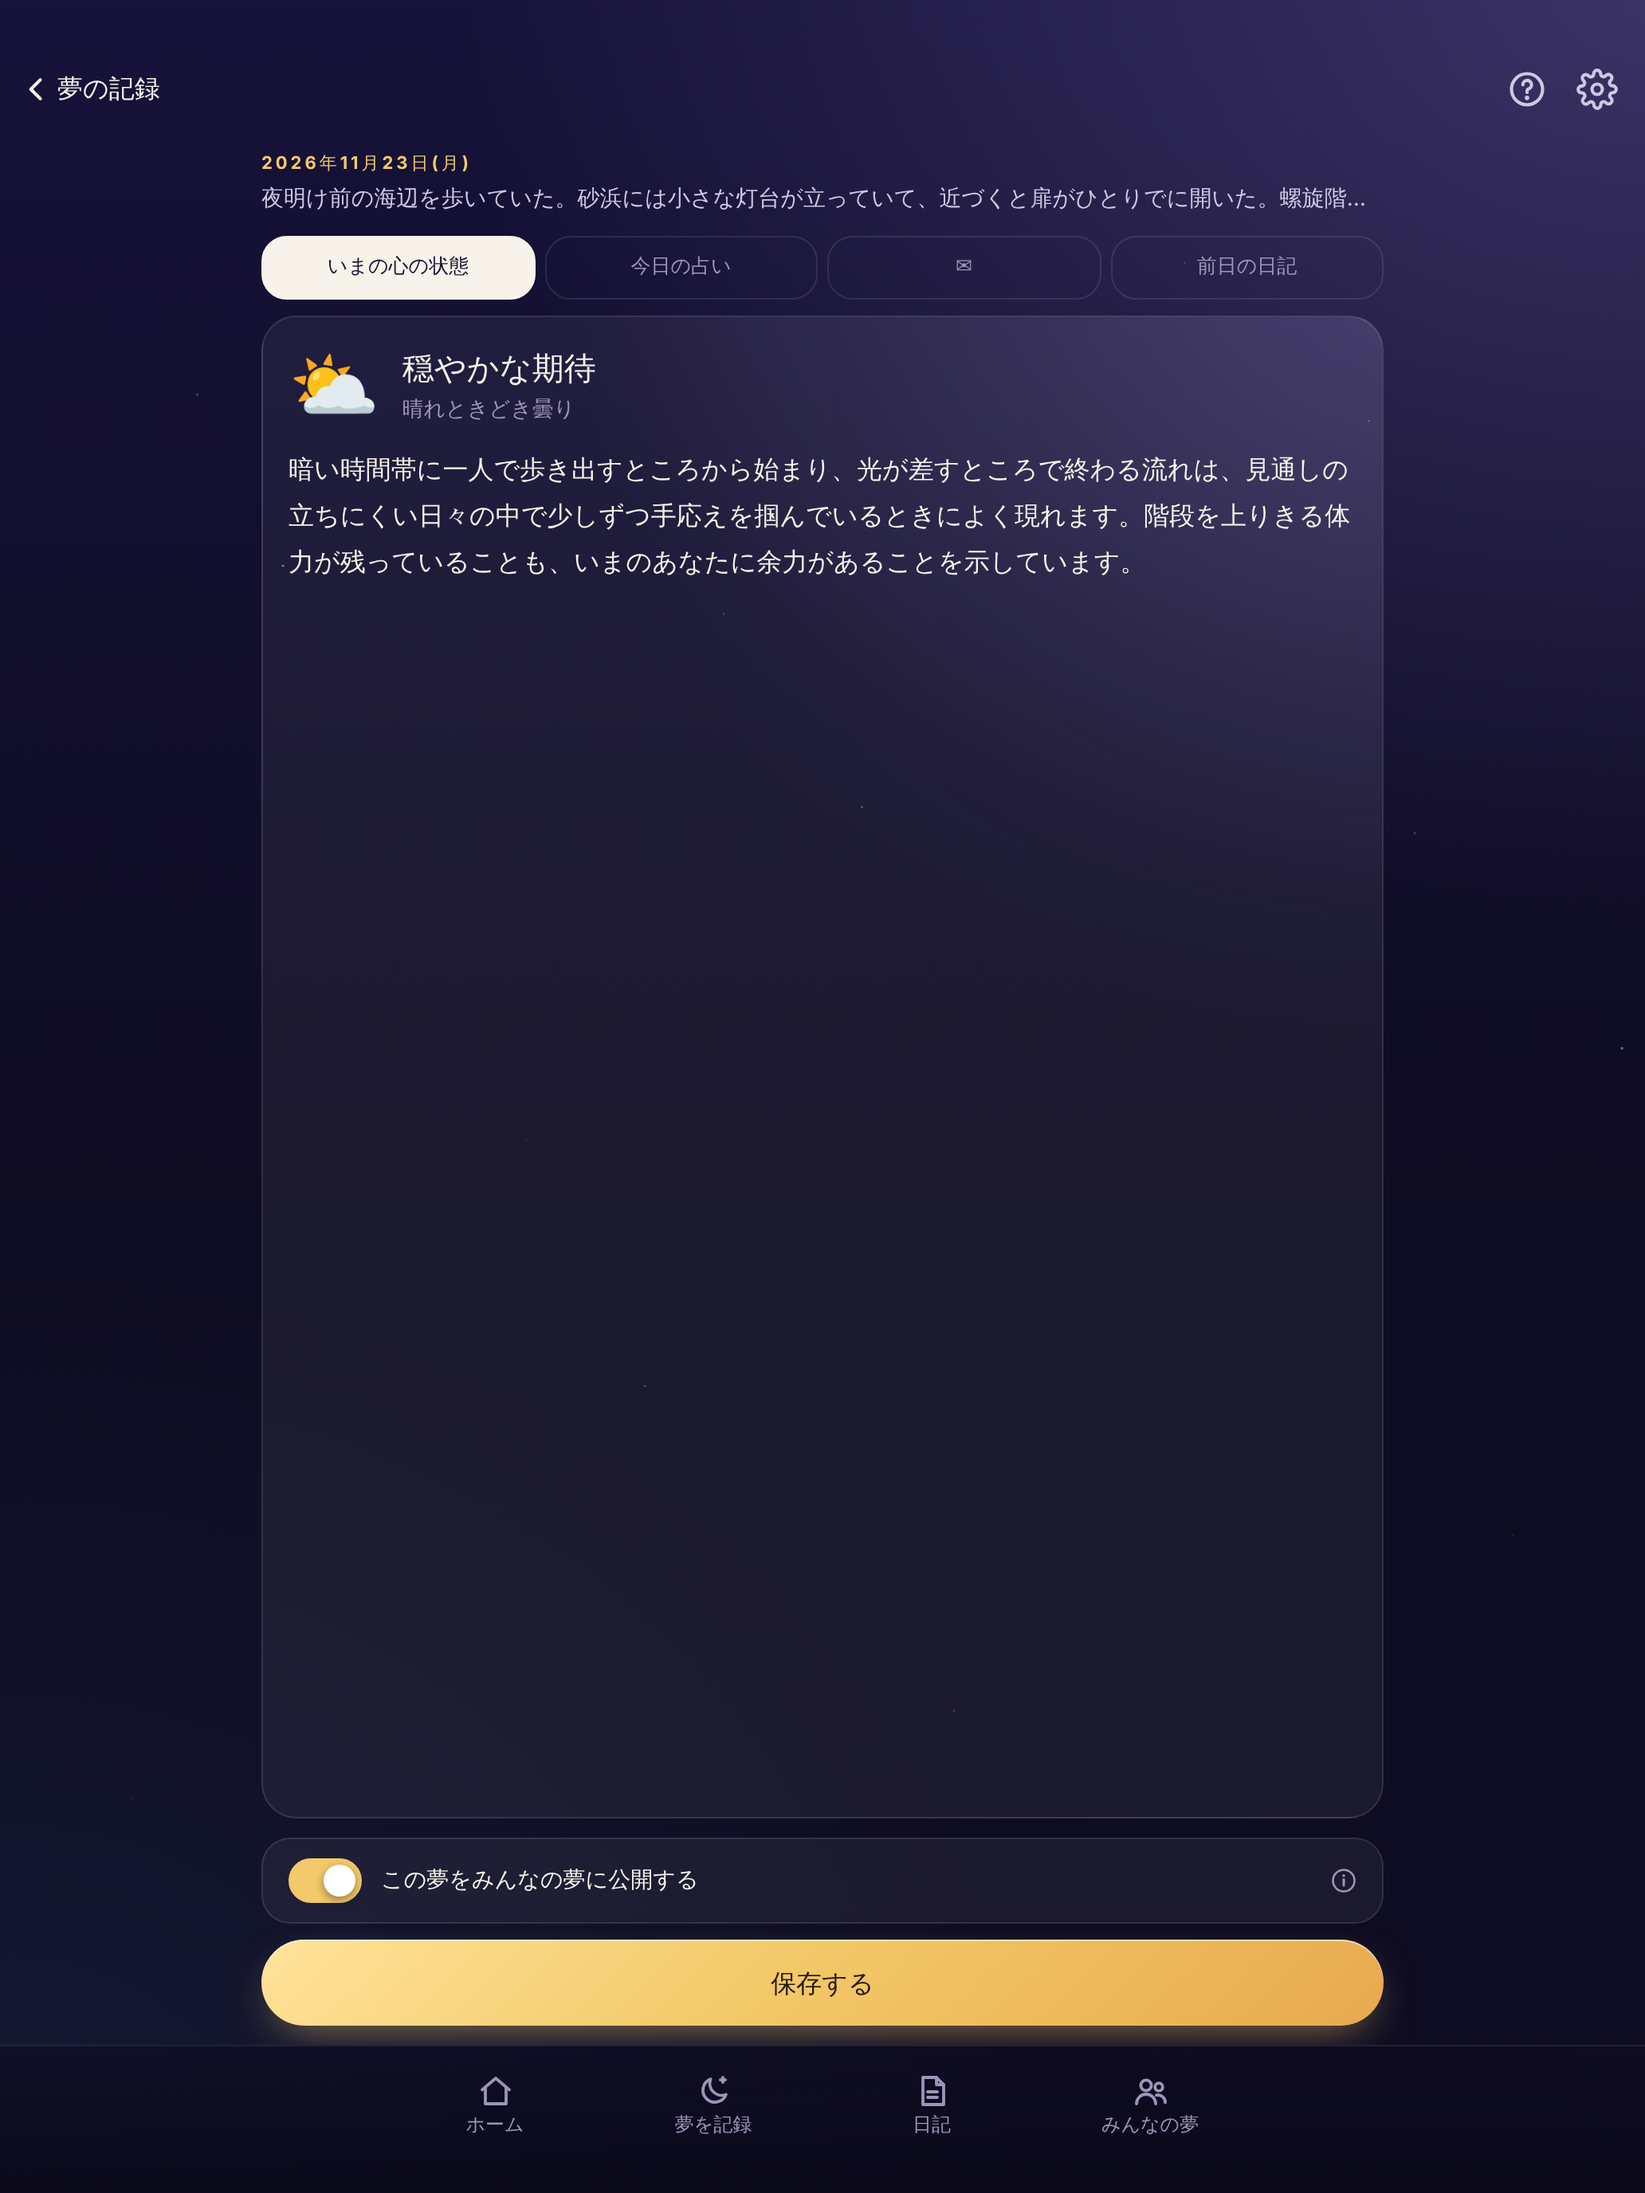
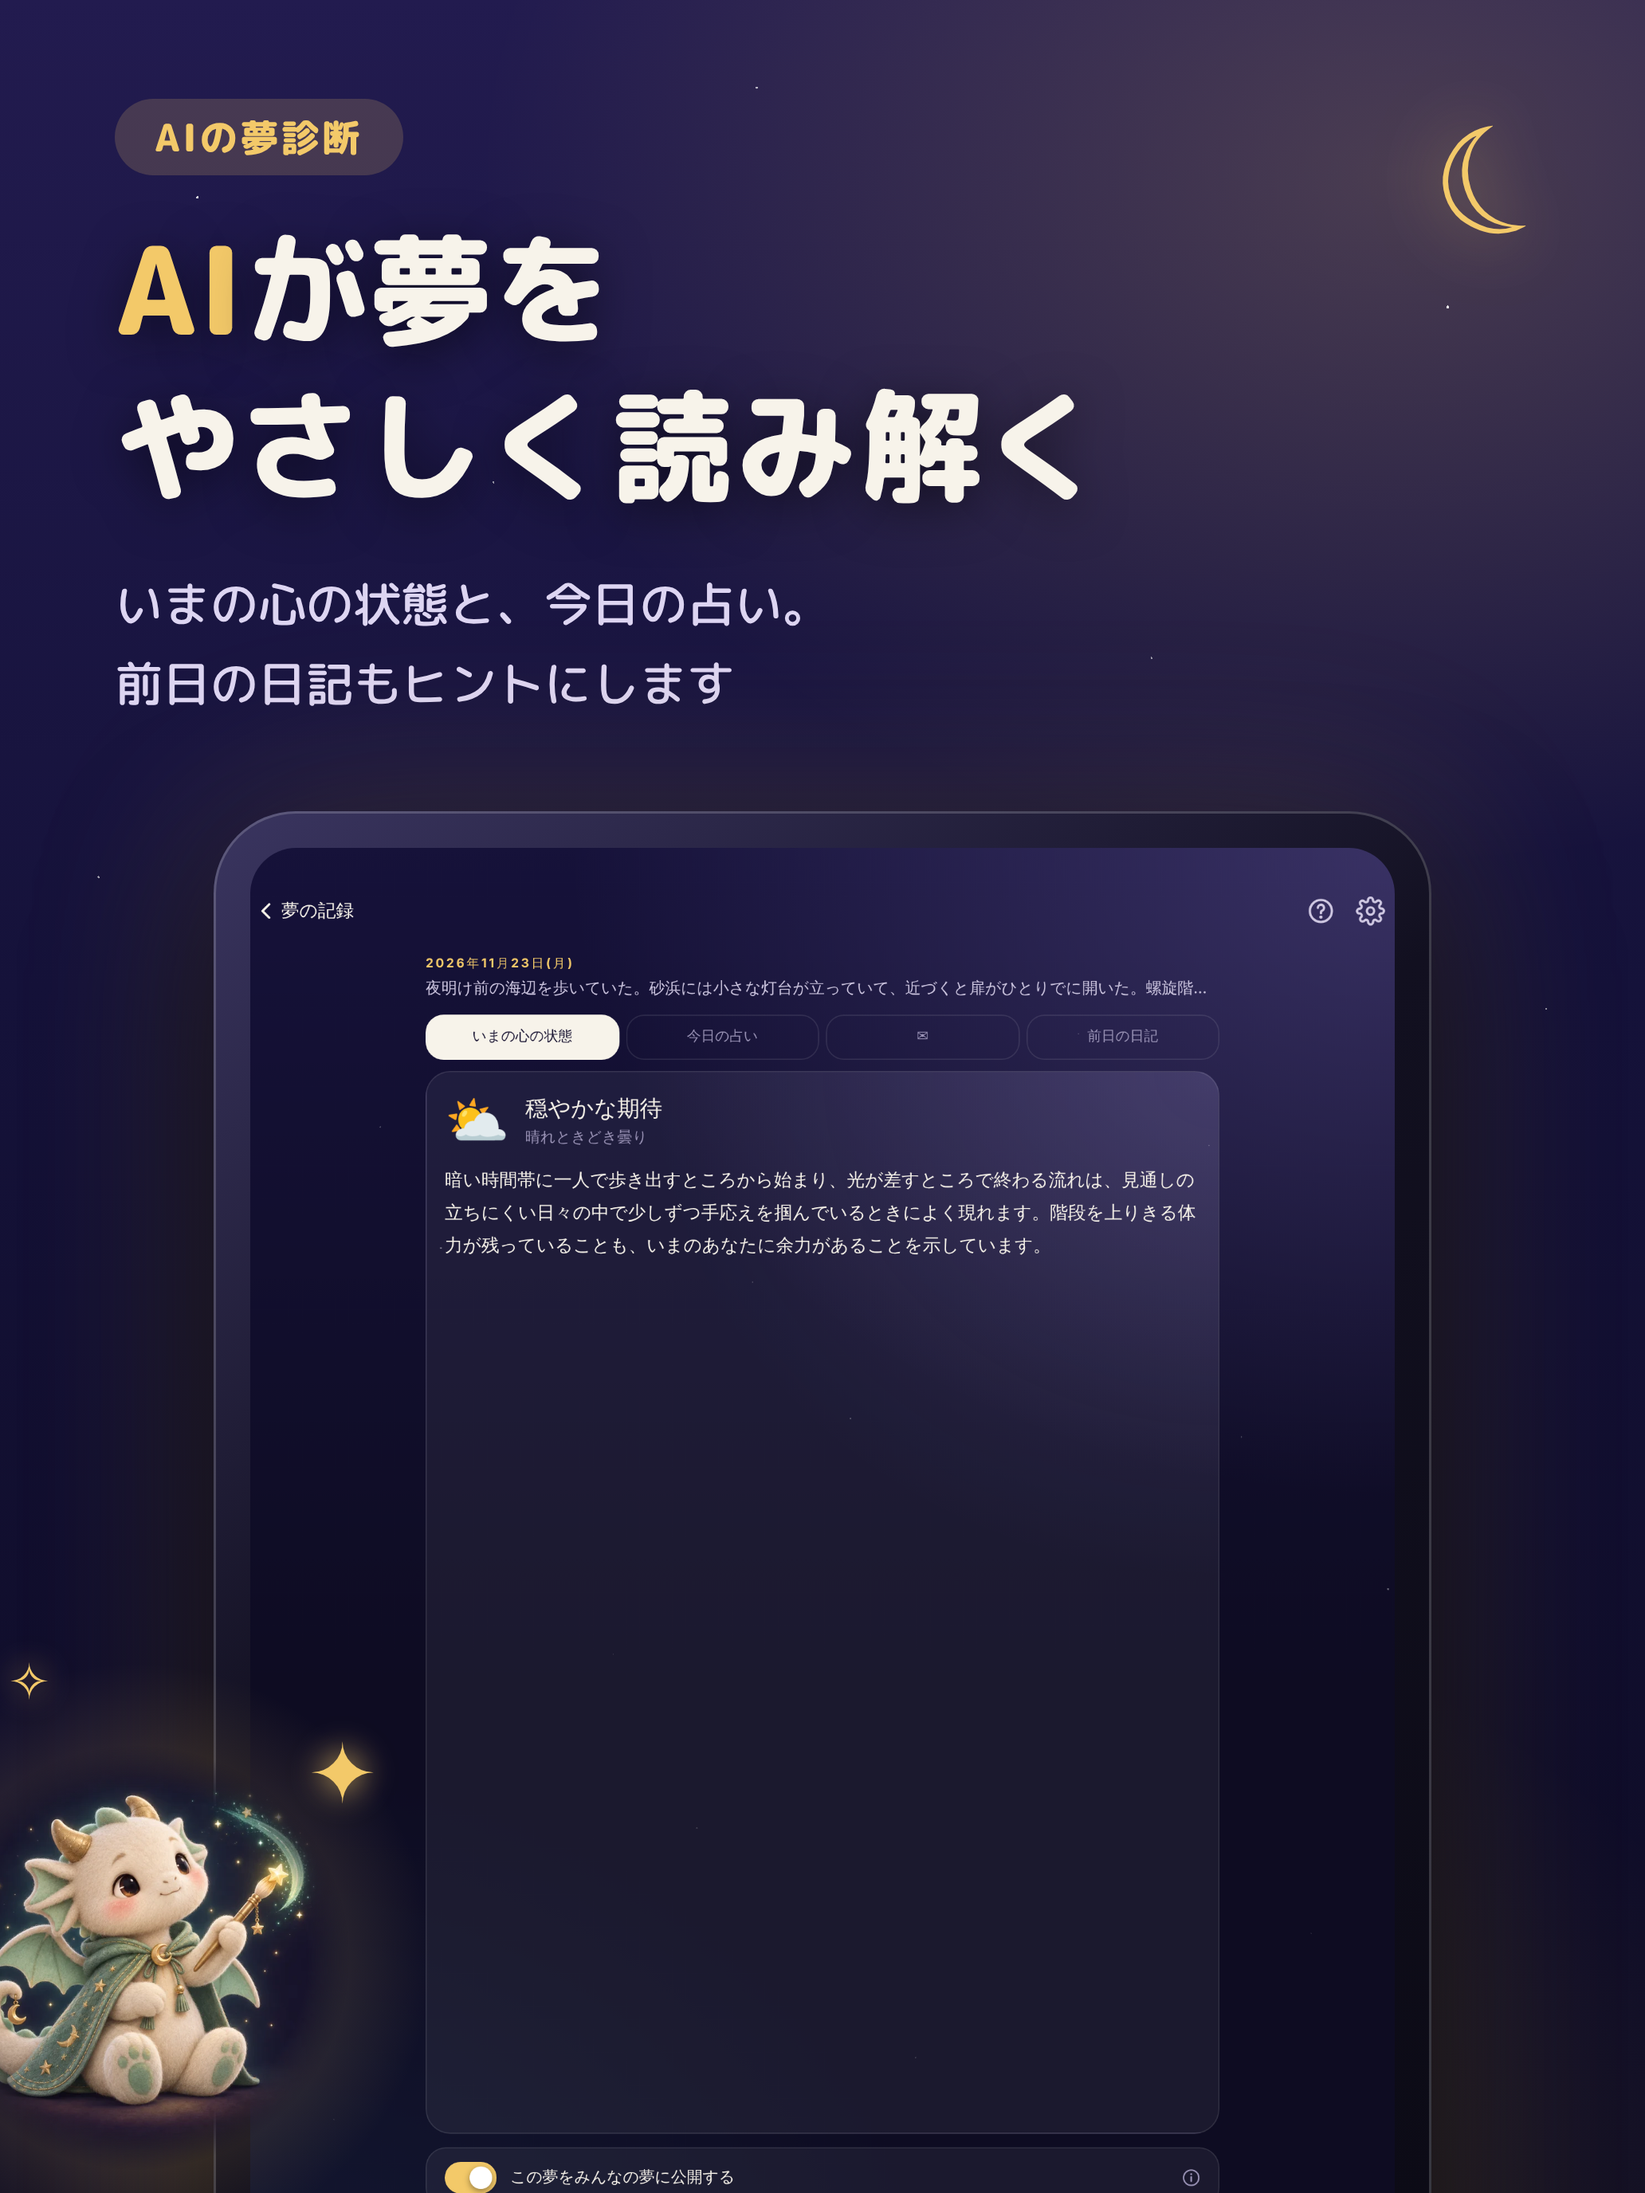
Turn the App Store screenshots into product-page images with copy and a device frame
Each of the five screens is now set in a phone (or iPad) frame on the night
sky, under a headline and a line of copy in Japanese, with one of the
characters beside it. The images keep exactly the size of the screen they
come from: iPhone 1320x2868 (large Dynamic Island), 1290x2796 (its spare),
1206x2622 (medium Dynamic Island), 1242x2688 (Face ID large) and iPad
2064x2752.

scripts/appstore-marketing.mjs builds them from the plain screens, now kept
under screenshots/raw; the headlines live in its SLIDES table and are set in
M PLUS Rounded 1c (a new dev dependency). The subscription review shots stay
plain, since Apple reviews them as the purchase screen itself.

Claude-Session: https://claude.ai/code/session_01FBwuou27jZVvikGHsroYDD

diff --git a/docs/appstore/screenshots/README.md b/docs/appstore/screenshots/README.md
@@ -1,5 +1,34 @@
 # App Store 用スクリーンショット
 
+## 構成（v1.1〜）
+
+- `<機種>/01-home.png`〜`05-plans.png`: **App Store に載せる画像**。アプリ画面を端末の枠に入れ、見出し・説明・キャラクターを夜空の背景に配置したもの。`scripts/appstore-marketing.mjs` が `raw/` から作る。大きさは元の画面と同じ（下表）。
+- `raw/<機種>/`: 元のアプリ画面。`scripts/appstore-screenshots.mjs` が撮影。
+- `subscriptions/`: サブスクリプション審査用。購入画面そのものを見せるため、枠や文言は付けない。
+
+| フォルダ | App Store Connect の欄 | 大きさ |
+| --- | --- | --- |
+| `iphone-6.9` | Dynamic Island搭載iPhone（大型ディスプレイ） | 1320×2868 |
+| `iphone-6.7` | 同上の予備（1320×2868 が通らないとき） | 1290×2796 |
+| `iphone-6.3` | Dynamic Island搭載iPhone（中型ディスプレイ） | 1206×2622 |
+| `iphone-6.5` | Face ID搭載iPhone（大型ディスプレイ） | 1242×2688 |
+| `ipad-13` | iPad 13インチディスプレイ | 2064×2752 |
+
+作り直すとき（`PORT=3187 npm start` を起動した状態で）:
+
+```
+node scripts/appstore-screenshots.mjs docs/appstore/screenshots/raw
+node scripts/appstore-screenshots.mjs docs/appstore/screenshots/raw --only=iphone-6.3
+node scripts/appstore-screenshots.mjs docs/appstore/screenshots/raw --only=iphone-6.7
+node scripts/appstore-marketing.mjs
+```
+
+1 行目は `raw/subscriptions` も作るので、審査用を更新するときは `subscriptions/` に移す。見出しと説明文は `scripts/appstore-marketing.mjs` の `SLIDES` にある。
+
+---
+
+以下は v1.0 時点の記録。
+
 `scripts/appstore-screenshots.mjs` で、現行ビルドのアプリ本体を iPhone / iPad の実ピクセルで描画して撮影したもの。合成・枠付け・ステータスバーの描き込みは無し。ステータスバー領域（セーフエリア上部）はアプリ自身の背景のまま（実機では OS が時計を重ねる）。他プラットフォームへの言及（Google Play / Android）は含まれない。
 
 撮影日: 2026-10-03 / ビルド: develop（Google Play 言及削除後）
